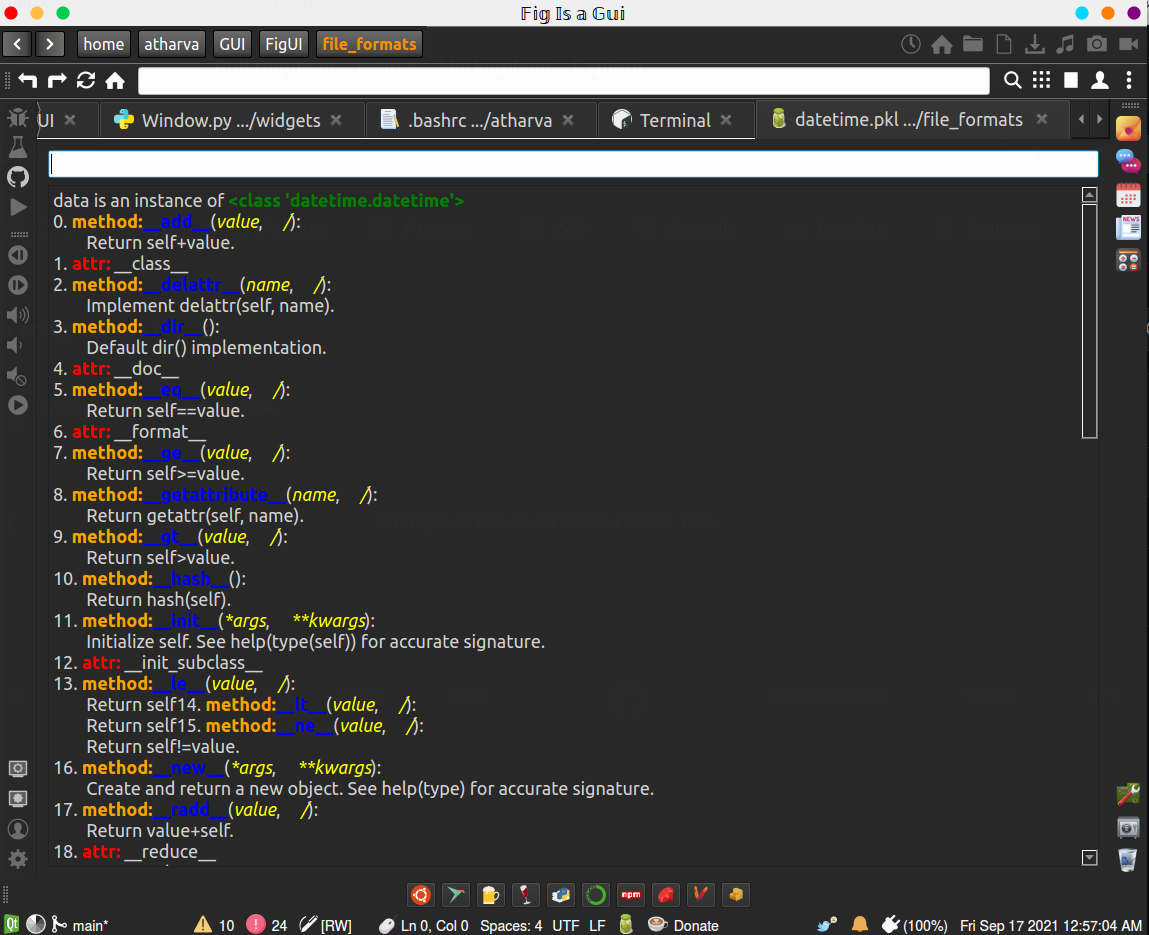
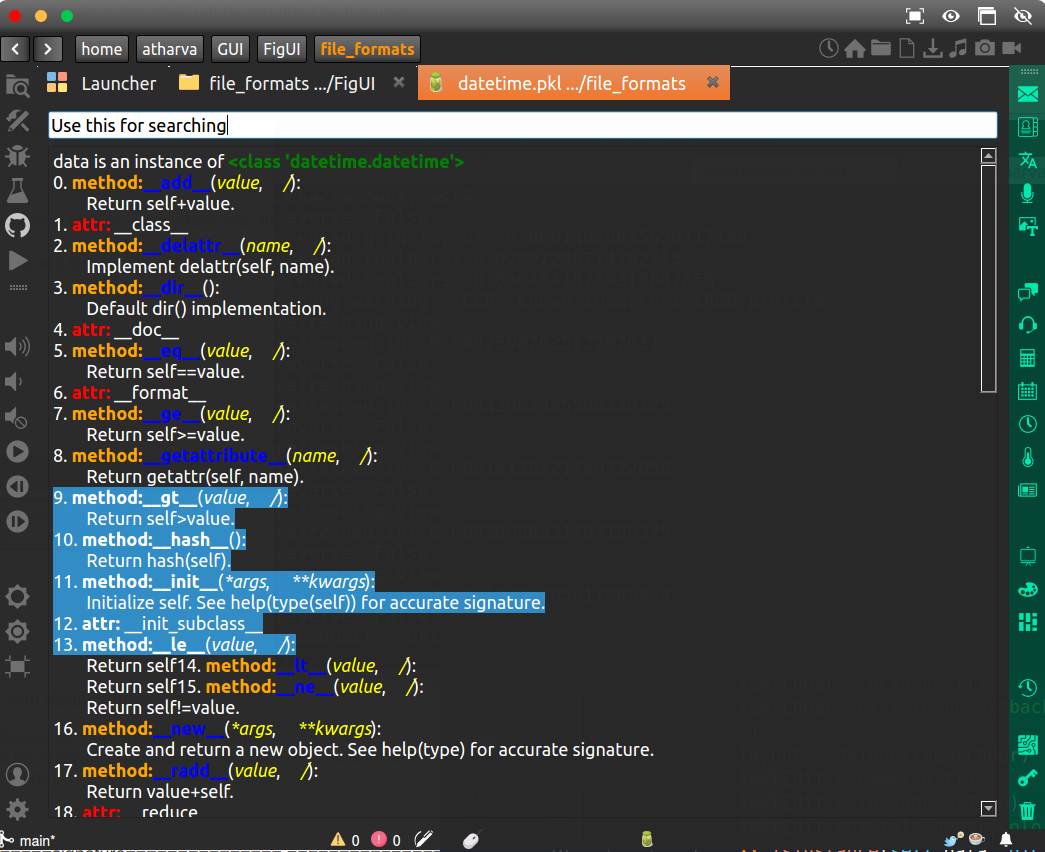
edited screenshots and fixed browser navbar display issue

diff --git a/FigUI/widgets/Window.py b/FigUI/widgets/Window.py
@@ -709,73 +709,20 @@ class WebRenderEngine(QWebEngineView):
 class FigBrowser(QWidget):
     def __init__(self, parent=None):
         super(FigBrowser, self).__init__()
+        self._parent = parent
         layout = QVBoxLayout(self)
         layout.setContentsMargins(0, 0, 0, 0)
-        navbar = QToolBar("Navigation")
-        # move back.
-        backBtn = QAction("Back", self)
-        backBtn.setToolTip("Go back to the previous page ...")
-        backBtn.setIcon(FigIcon("browser/back.svg"))
-        # move forward.
-        forwardBtn = QAction("Forward", self)
-        forwardBtn.setToolTip("Go forward while navigating ...")
-        forwardBtn.setIcon(FigIcon("browser/forward.svg"))
-        # refresh.
-        refreshBtn = QAction("Refresh", self)
-        refreshBtn.setToolTip("Refresh webpage")
-        refreshBtn.setIcon(FigIcon("browser/refresh.svg"))
-        # stop loading.
-        stopBtn = QAction("Stop", self)
-        stopBtn.setToolTip("Stop loading of the webpage")
-        stopBtn.setIcon(FigIcon("browser/stop.svg"))
-        # home page.
-        homeBtn = QAction("Home", self)
-        homeBtn.setToolTip("Got back to home page")
-        homeBtn.setIcon(FigIcon("browser/home.svg"))
-        # search function.
-        searchBtn = QAction("Search", self)
-        searchBtn.setToolTip("Search the url entered in the search bar.")
-        searchBtn.setIcon(FigIcon("browser/search.svg"))
-        # url search bar.
-        searchBar = QLineEdit()
-        searchBar.setToolTip("Type a url or search query.")
-        searchBar.setStyleSheet("background: #fff")
-        # extensions.
-        extensionsBtn = QAction("Extensions", self)
-        extensionsBtn.setToolTip("Extensions.")
-        extensionsBtn.setIcon(FigIcon("browser/extensions.svg"))
-        # user profile.
-        profileBtn = QAction("User", self)
-        profileBtn.setToolTip("Change user profile.")
-        profileBtn.setIcon(FigIcon("browser/user.svg"))
-        # settings.
-        settingsBtn = QAction("Settings", self)
-        settingsBtn.setToolTip("Modify settings.")
-        settingsBtn.setIcon(FigIcon("browser/settings.svg"))
-        # navigation bar.
-        navbar.addAction(backBtn)
-        navbar.addAction(forwardBtn)
-        navbar.addAction(refreshBtn)
-        navbar.addAction(homeBtn)
-        navbar.addSeparator()
-        navbar.addWidget(searchBar)
-        navbar.addSeparator()
-        navbar.addAction(searchBtn)
-        navbar.addAction(extensionsBtn)
-        navbar.addAction(stopBtn)
-        navbar.addAction(profileBtn)
-        navbar.addAction(settingsBtn)
-        navbar.setStyleSheet("background: #292929")
+        # navbar = QToolBar("Navigation")
         self.browser = WebRenderEngine(parent)
         layout.addWidget(self.browser)
         # set toolbar sizes.
-        navbar.setIconSize(QSize(20,20))
         if parent:
-            parent.navbar = navbar
-            if not(parent.navBarAdded):
-                parent.addToolBar(navbar)
-                parent.logger.info(f"browser bar added for {parent.winId()}")
+            parent.browserNavBar.show()
         self.setLayout(layout)
+        self._parent = parent
+
+    def url(self):
+        return self.browser.url()
 
 
 class FigWindow(QMainWindow):
@@ -808,7 +755,8 @@ class FigWindow(QMainWindow):
         # currently displayed path (on the folder bar)
         self.folderBar.path = str(pathlib.Path.home())
         self.shortcutBar = self.initShortcutBar()
-
+        # browser navigation bar.
+        self.browserNavBar = self.initBrowserNavBar() 
         # package manager launcher
         self.packmanBar = self.initPackmanBar()
         self.packmanBar.setMinimumSize(QSize(300,400))
@@ -817,6 +765,8 @@ class FigWindow(QMainWindow):
         self.addToolBarBreak(Qt.TopToolBarArea)
         self.addToolBar(Qt.TopToolBarArea, self.folderBar)
         self.addToolBar(Qt.TopToolBarArea, self.shortcutBar)
+        self.addToolBarBreak(Qt.TopToolBarArea)
+        self.addToolBar(Qt.TopToolBarArea, self.browserNavBar)
         self.addToolBar(Qt.LeftToolBarArea, self.debugBar)
         self.addToolBar(Qt.LeftToolBarArea, self.mediaBar)
         self.addToolBar(Qt.LeftToolBarArea, self.systemBar)
@@ -902,12 +852,12 @@ class FigWindow(QMainWindow):
         # self.newTabBtn.clicked.connect(self.addNewTab)
         self.tabs.addTab(self.fig_launcher, FigIcon("launcher.png"), "\tLauncher")
         self.tabs.tabBar().setTabButton(0, QTabBar.RightSide,None) # make launcher tab unclosable.
-        self.navBarAdded = False
         # self.setLayout(self.layout)
         self.setAttribute(Qt.WA_TranslucentBackground, True) # NOTE: need for rounded corners
         # fullscreen on F11.
         self.isfullscreen = False
-        # self.ctrlBar.hide()
+        self.ctrlBar.hide()
+        self.browserNavBar.hide()
         # self.showFullScreen()
         if PLATFORM == "Linux":
             self.fnF11 = QShortcut(QKeySequence('Fn+F11'), self)
@@ -953,6 +903,67 @@ class FigWindow(QMainWindow):
         else:
             self.setWindowFlags(self.windowFlags() & Qt.WindowStaysOnTopHint)
         self.ontopFlag = not self.ontopFlag
+
+    def initBrowserNavBar(self):
+        '''create the navbar for borwser instances.'''
+        navbar = QToolBar("Navigation")
+        # move back.
+        backBtn = QAction("Back", self)
+        backBtn.setToolTip("Go back to the previous page ...")
+        backBtn.setIcon(FigIcon("browser/back.svg"))
+        # move forward.
+        forwardBtn = QAction("Forward", self)
+        forwardBtn.setToolTip("Go forward while navigating ...")
+        forwardBtn.setIcon(FigIcon("browser/forward.svg"))
+        # refresh.
+        refreshBtn = QAction("Refresh", self)
+        refreshBtn.setToolTip("Refresh webpage")
+        refreshBtn.setIcon(FigIcon("browser/refresh.svg"))
+        # stop loading.
+        stopBtn = QAction("Stop", self)
+        stopBtn.setToolTip("Stop loading of the webpage")
+        stopBtn.setIcon(FigIcon("browser/stop.svg"))
+        # home page.
+        homeBtn = QAction("Home", self)
+        homeBtn.setToolTip("Got back to home page")
+        homeBtn.setIcon(FigIcon("browser/home.svg"))
+        # search function.
+        searchBtn = QAction("Search", self)
+        searchBtn.setToolTip("Search the url entered in the search bar.")
+        searchBtn.setIcon(FigIcon("browser/search.svg"))
+        # url search bar.
+        searchBar = QLineEdit()
+        searchBar.setToolTip("Type a url or search query.")
+        searchBar.setStyleSheet("background: #fff")
+        # extensions.
+        extensionsBtn = QAction("Extensions", self)
+        extensionsBtn.setToolTip("Extensions.")
+        extensionsBtn.setIcon(FigIcon("browser/extensions.svg"))
+        # user profile.
+        profileBtn = QAction("User", self)
+        profileBtn.setToolTip("Change user profile.")
+        profileBtn.setIcon(FigIcon("browser/user.svg"))
+        # settings.
+        settingsBtn = QAction("Settings", self)
+        settingsBtn.setToolTip("Modify settings.")
+        settingsBtn.setIcon(FigIcon("browser/settings.svg"))
+        # navigation bar.
+        navbar.addAction(backBtn)
+        navbar.addAction(forwardBtn)
+        navbar.addAction(refreshBtn)
+        navbar.addAction(homeBtn)
+        navbar.addSeparator()
+        navbar.addWidget(searchBar)
+        navbar.addSeparator()
+        navbar.addAction(searchBtn)
+        navbar.addAction(extensionsBtn)
+        navbar.addAction(stopBtn)
+        navbar.addAction(profileBtn)
+        navbar.addAction(settingsBtn)
+        navbar.setStyleSheet("background: #292929")
+        navbar.setIconSize(QSize(17,17))
+
+        return navbar
 
     def initShortcutBar(self):
         home = str(pathlib.Path.home())
@@ -1561,7 +1572,6 @@ class FigWindow(QMainWindow):
         browser.browser.setUrl(qurl) 
         # browser.execJS("document.location.href='https://developer.mozilla.org/en-US/docs/Web/API/document.location';") # setting url to browser
 		# setting tab index
-        self.navBarAdded = True
         i = self.tabs.addTab(browser, label)
         self.tabs.setCurrentIndex(i)
         self.logger.info(f"browser opened into a window with id: {int(self.winId())}")
@@ -1582,13 +1592,13 @@ class FigWindow(QMainWindow):
     
     def onCurrentTabChange(self, i):
         '''when tab is changed.'''
-
         try:
             qurl = self.tabs.currentWidget().url() # get the curl
 		    # self.update_urlbar(qurl, self.tabs.currentWidget()) # update the url 
-            self.update_title(self.tabs.currentWidget()) # update the title
+            self.browserNavBar.show()
+            self.tabs.setTabText(i, qurl.toString())
         except AttributeError:
-            pass
+            self.browserNavBar.hide()
         # shadow effect for tab.
         # shadowEffect = QGraphicsDropShadowEffect(self)
         # shadowEffect.setOffset(0, 0)
@@ -1622,14 +1632,12 @@ class FigWindow(QMainWindow):
         if self.tabs.count() < 2:
             return # do nothing
         self.tabs.removeTab(i) # else remove the tab
-
-    def update_title(self, browser):
-        '''method for update_title'''
-        # if signal is not from the current tab
-        if browser != self.tabs.currentWidget(): return # do nothing
-        title = self.tabs.currentWidget().page().title() # get the page title
-        self.setWindowTitle(title) # set the window title
-
+    # def update_title(self, browser):
+    #     '''method for update_title'''
+    #     # if signal is not from the current tab
+    #     if browser != self.tabs.currentWidget(): return # do nothing
+    #     title = self.tabs.currentWidget().page().title() # get the page title
+    #     self.setWindowTitle(title) # set the window title
     def navigate_to_url(self):
         '''method for navigating to the url.'''
         # get the line edit text and convert it to QUrl object

diff --git a/FigUI/handler/Archives/pkl.py b/FigUI/handler/Archives/pkl.py
@@ -18,9 +18,11 @@ class PickleHandler:
             widget = QWidget()
             layout = QVBoxLayout()
             searchBar = QLineEdit()
-            searchBar.setStyleSheet("background: white; color: black; color: #fff;")
+            searchBar.setStyleSheet("background: white; color: black;")
             layout.addWidget(searchBar)
             textEdit = QTextEdit()
+            textEdit.setReadOnly(True)
+            textEdit.setStyleSheet("color: #fff;")
             if isinstance(self.data, dict):
                 # print("\x1b[31;1mfound dict\x1b[0m")
                 try:

diff --git a/README.md b/README.md
@@ -63,6 +63,8 @@ For now, see: [attributions.md](FigUI/assets/attributions.md)
 ![Task Viewer: vertical mode](screenshots/task-view-alternate.png?raw=true "Task Viewer: vertical mode")
 15) Clock
 ![Clock](screenshots/clock.png?raw=true "clock")
+16) Embedded Chromium Browser
+![Browser](screenshots/embedded-chromium-browser.png?raw=true "Browser")
 
 
 ## How to install
